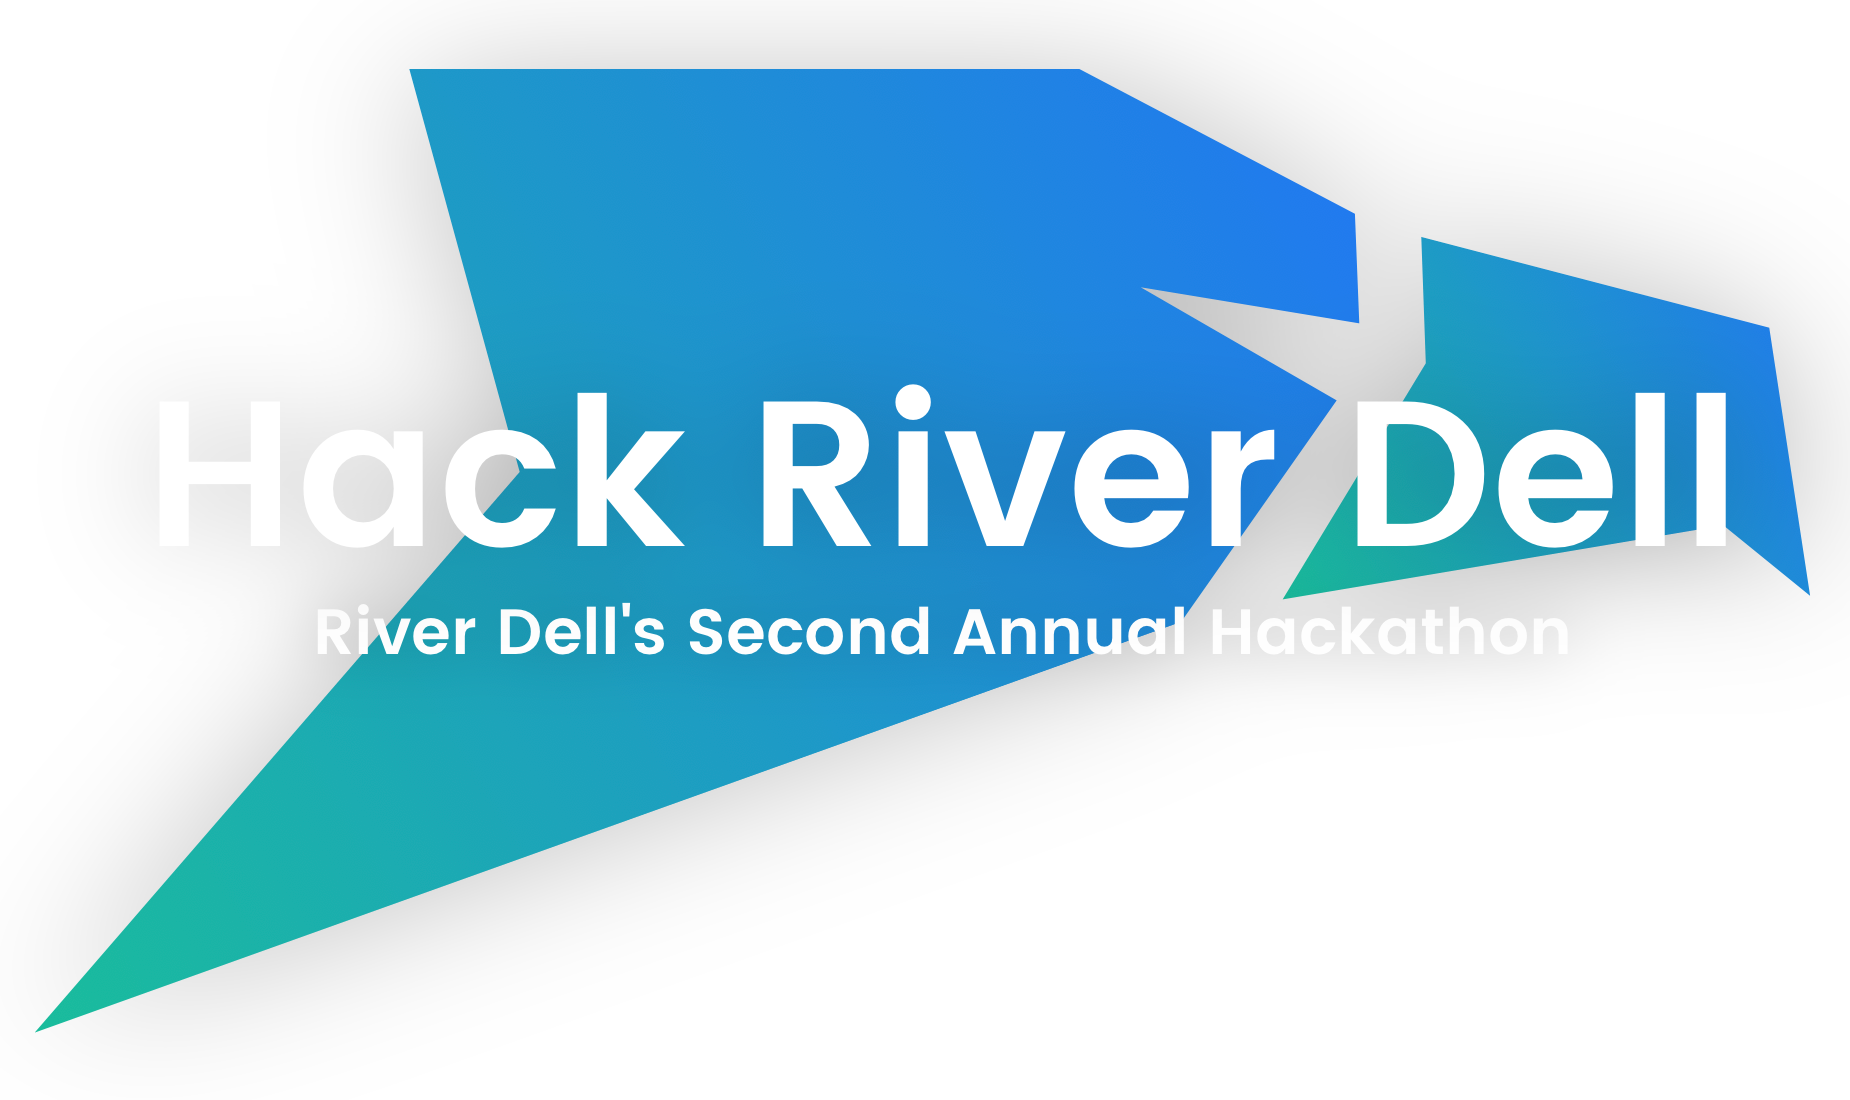
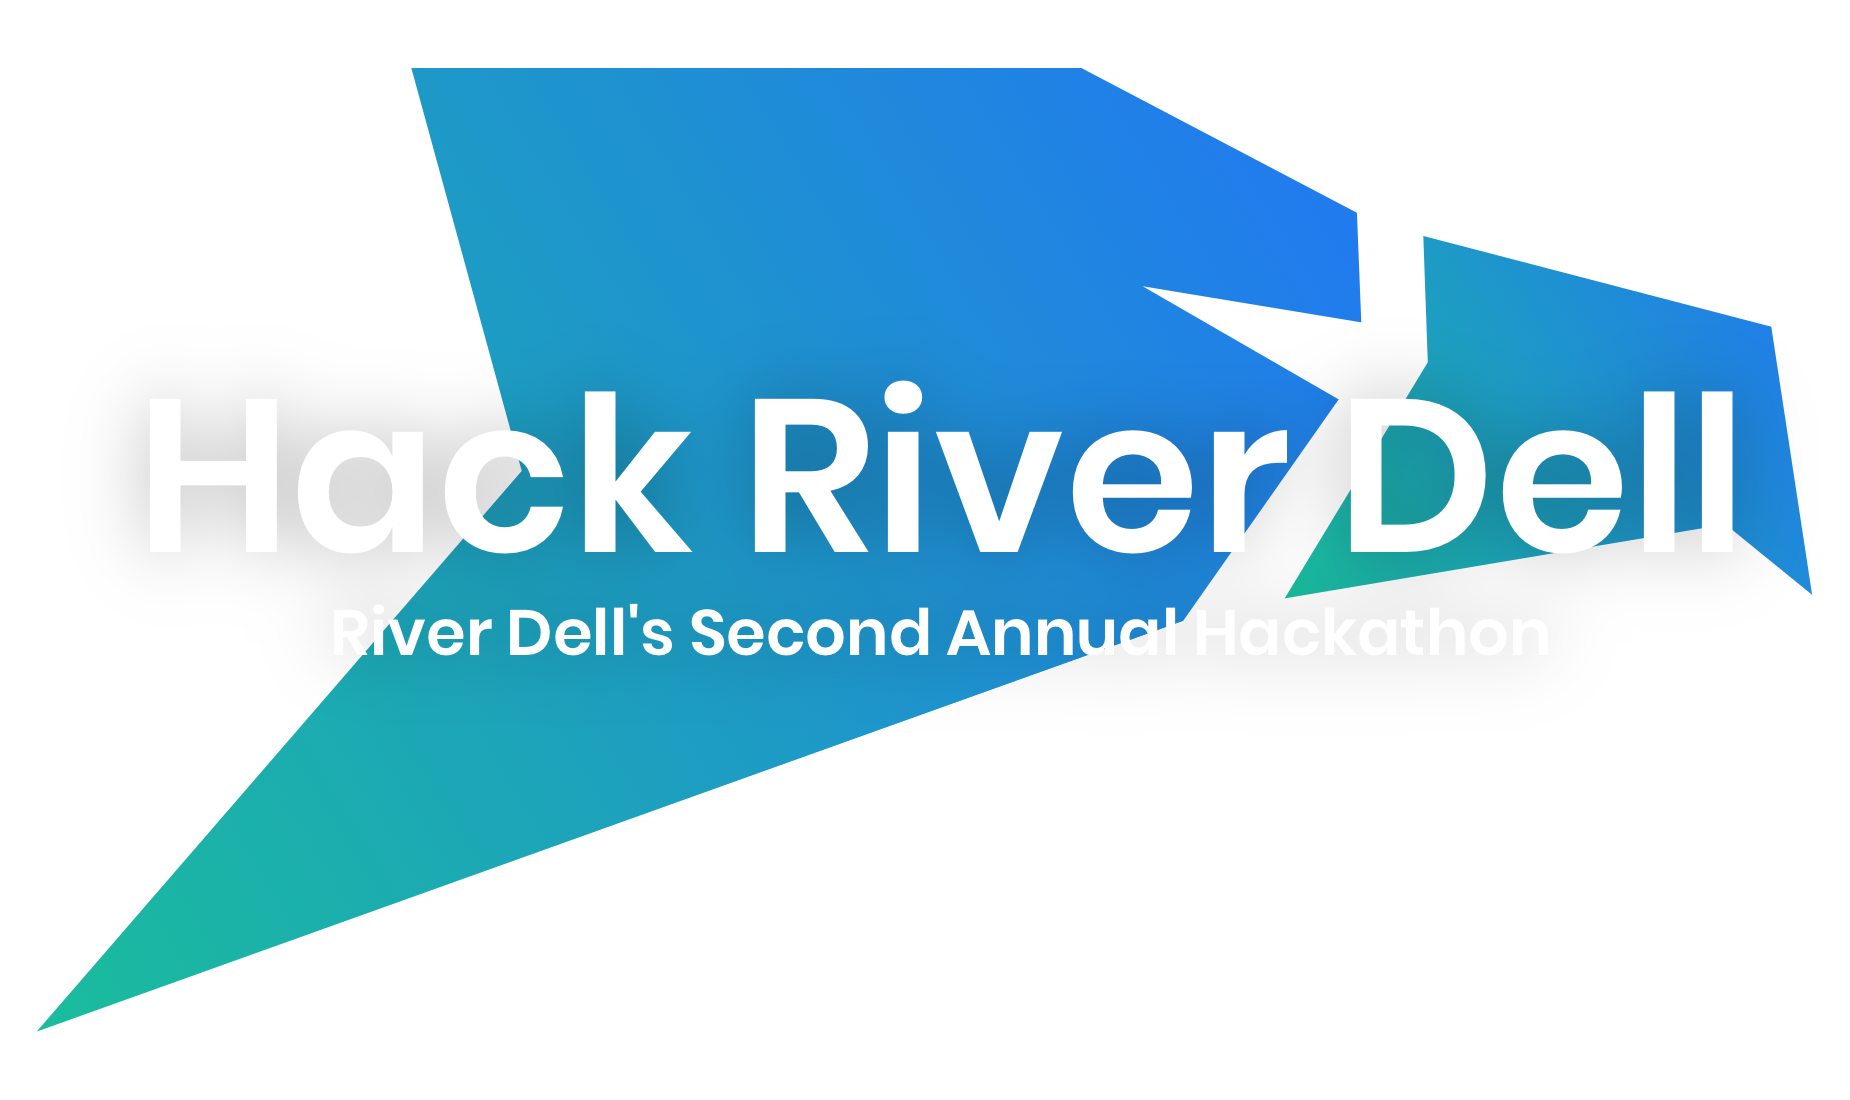
Website upkeep
*Header image shadow fixed for future viewing

diff --git a/index.html b/index.html
@@ -526,7 +526,7 @@
           <br>
           <br>
           <h3 class="signup-title">Photos from Hack River Dell</h3>
-          <p id="codeofconduct"><a href="https://www.facebook.com/media/set/?set=a.1997552690523835.1073741831.1729071377371969&type=1&l=1f17ce437c">Explore the photo album on our Facebook page &#10095;</a></p>
+          <p id="codeofconduct"><a href="https://www.facebook.com/media/set/?set=a.1997552690523835.1073741831.1729071377371969&type=1&l=1f17ce437c">Explore the photo album on Facebook &#10095;</a></p>
           <div align="center" id="bottom-signup">
             <!--<a href="https://my.mlh.io/oauth/authorize?client_id=3762d1ca4fe1e313bc30872cbdc3f154be9470d48f3835183fe03653e65ccdda&redirect_uri=http%3A%2F%2Fhackriverdell.com%2Fconfirm.html&response_type=token" class="btn btn-two btn-extend">Sign up</a>--
             <p id="codeofconduct">By registering for Hack River Dell, you accept the <a href="https://static.mlh.io/docs/mlh-code-of-conduct.pdf">MLH Code of Conduct.</a><p>-->
